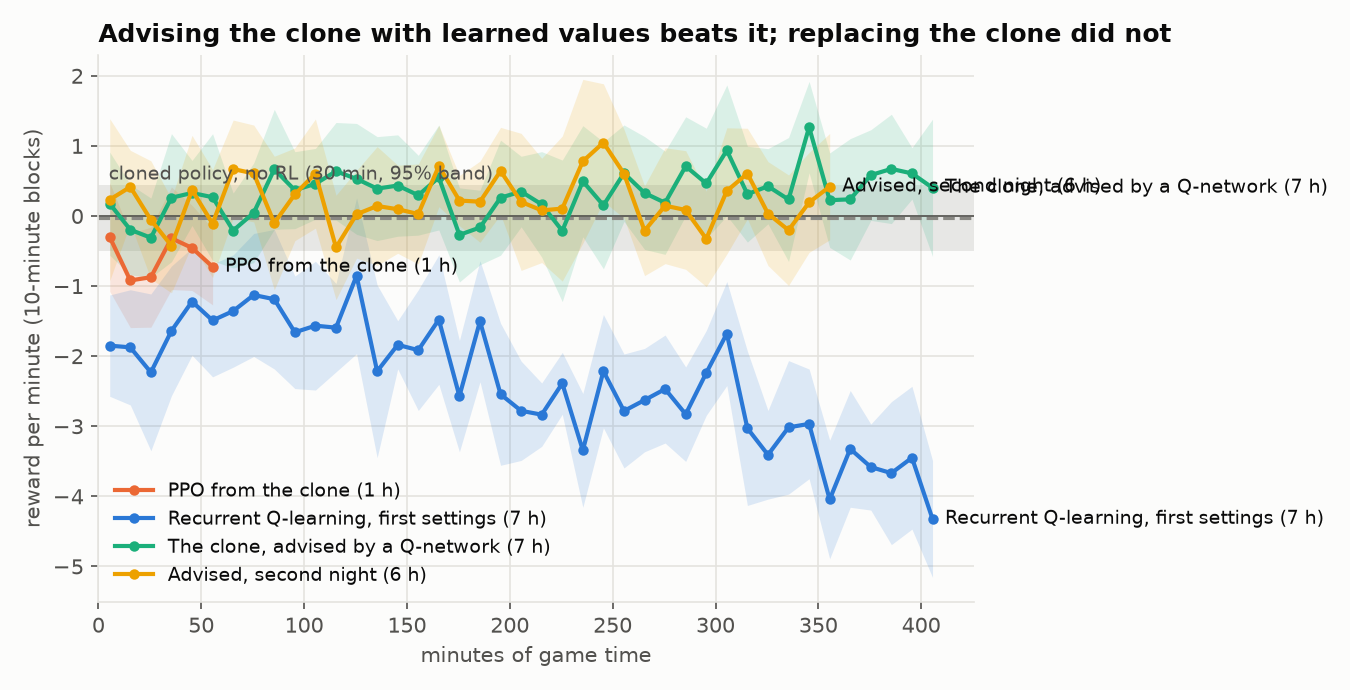
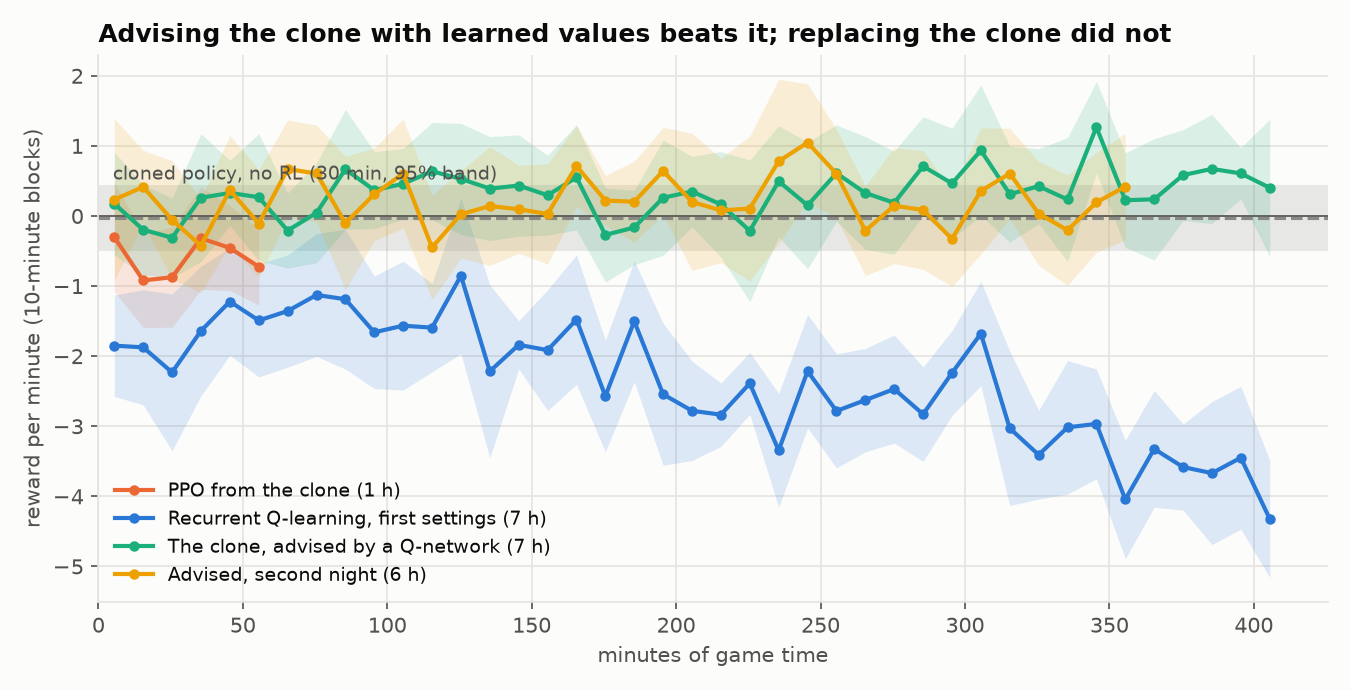
docs: the README shows the current agent, its results and what failed

diff --git a/scripts/plot_results.py b/scripts/plot_results.py
@@ -86,8 +86,7 @@ def rl_runs(plt) -> Path:
         p = progress(path)
         t, m, e = blocks(p["reward"], p["game_frames"] / 3600)
         ax.fill_between(t, m - 1.96 * e, m + 1.96 * e, color=colour, alpha=0.15, lw=0)
-        ax.plot(t, m, color=colour, marker="o", ms=4, label=label)
-        ax.annotate(label, (t[-1], m[-1]), xytext=(6, 0), textcoords="offset points", color=INK, fontsize=9, va="center")
+        ax.plot(t, m, color=colour, marker="o", ms=4, label=label)  # named in the legend: end labels collide
     ax.set_xlabel("minutes of game time")
     ax.set_ylabel("reward per minute (10-minute blocks)")
     ax.set_title("Advising the clone with learned values beats it; replacing the clone did not")

diff --git a/README.md b/README.md
@@ -1,161 +1,146 @@
-# brawl: vision-only reinforcement learning in a live game
+# brawl: a reinforcement-learning agent that plays a live fighting game from the screen
 
-An agent that plays Brawlhalla from **screen pixels alone**: no memory reading, no game API, no
-emulator. It runs on a single laptop (RTX 3050 Ti, 4 GB VRAM). Each step captures the screen,
-detects fighters and weapons with YOLO, updates a structured game state, reads stocks and damage
-from the HUD, and injects keyboard input.
+An agent that plays Brawlhalla against the game's built-in bots using **only what a human gets**: the
+pixels on the screen and the keyboard. No memory reading, no game API, no emulator, no speed-up or
+pause. Everything runs in real time on one laptop (RTX 3050 Ti, 4 GB VRAM), deciding 20 times a
+second.
 
-**Research question.** Being defined in `research/HYPOTHESIS.md` (next step). Everything produced before it (seven pipeline generations) is kept under `legacy/` and
-summarized, with its results and decisions, in [research/LAB_NOTEBOOK.md](research/LAB_NOTEBOOK.md).
+**Current result.** The agent starts from a cloned human policy, and a recurrent Q-network learns
+online, while the agent plays, how to shift that policy's choices. Against the Medium bot, the advised
+agent scores **+0.50 reward per minute**, against **−0.08** for the cloned policy alone. That is
+**20 stocks taken to 14 lost, against 15 to 16**, and **6 virtual matches won to 1, against 4 to 3**. Each
+was measured in 30 minutes of frozen-policy play (6 × 5 min blocks, back to back:
+[results/play/](results/play/)). The same gap held during training: +0.38 ± 0.06 against −0.11 ± 0.19
+over a 7-hour night.
 
-![Brawlhalla training-mode reference frame](assets/screenshots/stage-reference-1080p.png)
+![Reward per minute over each training run](results/figures/rl_runs.png)
 
-## Why this is hard
+*Each line is one overnight run in the live game (10-minute blocks, 95% bands). The grey band is the
+cloned policy without learning. Two baselines fell below it: PPO fine-tuning (red) and plain
+recurrent Q-learning (blue). Keeping the clone and letting a Q-network advise it (green, orange) is the
+first method that beat it.*
 
-| Constraint | Consequence |
-|---|---|
-| No memory access | Every state variable must be recovered from pixels |
-| No emulator, no pause | The game runs in wall-clock time and cannot be stepped or sped up |
-| Cannot reset the match | Episode boundaries are logical; the world keeps going |
-| One game instance | No parallel environments; about 26-30 control steps per second, detector-bound |
-| 4 GB VRAM | Detector and policy share one small GPU |
+## How it works
 
-About 27 steps/s is roughly 2.4M environment steps per day of continuous play, so sample
-efficiency per interaction and per wall-clock hour is the binding constraint. Detection is about
-93% of each step ([docs/performance.md](docs/performance.md)).
+```mermaid
+flowchart LR
+    S[Screen capture<br/>DXGI, 60 Hz] --> D[YOLO11s-pose<br/>TensorRT, ~14 ms]
+    D --> T[Tracker<br/>identities, weapons, velocities]
+    S --> H[HUD reader<br/>stocks, damage, KO vs fall]
+    T --> O[Observation<br/>112 features + timers]
+    H --> O
+    H --> R[Reward<br/>damage and stocks]
+    O --> P[Cloned policy<br/>MLP]
+    O --> Q[Recurrent Q-network<br/>GRU 256, dueling head]
+    P --> A{{"π ∝ π_clone · exp(β · clip(A_Q))"}}
+    Q --> A
+    A --> K[Keyboard<br/>9 directions × 6 buttons]
+    R --> L[Learner process<br/>n-step SARSA, CPU]
+    L -. new weights .-> Q
+```
 
-## Install
+1. **Perception.**
+   - A YOLO11s pose model finds both fighters and the weapons. I trained it on hand-labelled frames.
+     It is exported to a TensorRT FP16 engine and runs in about 14 ms a frame.
+   - A tracker keeps the fighters' identities and estimates their velocities.
+   - It passed a held-out gate ([results/gates/](results/gates/)): fighters found 98.6–100% of the
+     time, identity swaps at or below 0.7%, position error p95 at or below 15 px at 1920×1080.
+2. **Game state.**
+   - The HUD reader recovers stocks and damage from pixels.
+   - A ledger tells KOs apart from self-inflicted falls.
+   - The observation has 112 entries: positions, velocities, damage, weapons, stage geometry and
+     action timers.
+3. **Imitation.**
+   - I recorded under 2.5 hours of my own play.
+   - The policy clones only the stretches that ended in a stock taken.
+4. **Learning online: the "advised clone".**
+   - The agent samples from the clone's distribution, re-weighted by a recurrent Q-network's
+     advantages. The advantages are bounded, and the weighting ramps in after a 30-minute baseline.
+     This is a KL-regularised policy-improvement step, as in MPO and AWR.
+   - The Q-network learns by 20-step SARSA in a separate process while the game keeps running, so play
+     never waits for training.
+   - Safeguards for unattended 7–10 h runs:
+     - keep the best weights from any half-hour, and roll back to them if play falls by 1.0 reward a
+       minute;
+     - a watchdog that stops the run when the HUD goes unread;
+     - per-decision traces.
 
-Windows, Python 3.12, a CUDA 12.x GPU, and Brawlhalla in Training Mode at 1920x1080. torch must
-come from the PyTorch CUDA index, in its own command ([docs/setup.md](docs/setup.md) explains why).
+## What did not work, and why that mattered
+
+Every result, including the negative ones, is in [research/LAB_NOTEBOOK.md](research/LAB_NOTEBOOK.md).
+
+| Attempt | Outcome | Reading |
+|---|---|---|
+| PPO fine-tuning from the clone | Worse within an hour | Policy-gradient noise from one slow real-time environment destroys the clone faster than it learns |
+| Recurrent Q-learning, acting greedily | −2 to −4 reward per minute | First copied its own last action. Then its values inflated overnight (−1.85 → −4.3). Then it stood still once exploration stopped |
+| Uniform exploration | The fighter threw its weapon away | Replaced by exploring with the human's action frequencies |
+| Fighter crops (CNN) added to the vector state | Worse value estimates (lose AUC 0.61 against 0.73) | Overfits on 2.5 h of data; the vector already carries what the crops show |
+| Distilling the advised play into a new clone | Under test (A/B within one night) | – |
+
+## Engineering
+
+- **Real time, one instance:**
+  - Capture, perception and policy take 25 ms median per decision (p95 34 ms, against a 50 ms budget);
+  - 0.15% of decisions miss the budget.
+  - Every call is counted, so one frame gets exactly one grab, one detection and one step.
+- **Reproducible experiments:**
+  - YAML configs ([configs/base.yaml](configs/base.yaml), [configs/experiments/](configs/experiments/));
+  - `runs/<experiment>/<variant>/seed<k>/`, with per-block CSVs and the git commit in `meta.json`;
+  - [scripts/analyze.py](scripts/analyze.py) and [scripts/plot_results.py](scripts/plot_results.py) for summaries and figures;
+  - a lab notebook and a checklist.
+- **Offline benchmarks before every overnight run:**
+  - the value network on held-out human sessions: correlation with the real return, AUC for lost
+    and won stocks ([scripts/value_bench.py](scripts/value_bench.py));
+  - probes of which inputs help ([results/probes/](results/probes/)).
+- **1,000+ tests**, run in CI without the game: fake game and capture, the full live loop with a
+  learner process.
+
+## Run it
+
+Windows, Python 3.12, a CUDA 12 GPU, and Brawlhalla in Training Mode at 1920×1080 (Wu Shang vs a
+Mordex bot, Brawlhaven small, camera Fixed).
 
 ```powershell
 python -m pip install torch torchvision --index-url https://download.pytorch.org/whl/cu126
 python -m pip install -r requirements.txt
 python -m pip install -e .
-python -m pytest            # about 935 tests, 2 minutes; no game needed
+python -m pytest                                                     # no game needed
+
+python scripts/export_detector.py runs/detector/armed_yolo11s-pose_960/weights/best.pt   # TensorRT engine
+python scripts/record_demos.py --difficulty medium                   # record your own play
+python scripts/prepare_demos.py
+python scripts/train_bc.py --name medium_v1 --difficulty medium
+python scripts/train.py --config configs/experiments/rdqn_medium_v3.yaml   # the advised clone, overnight
+python scripts/analyze.py rdqn_medium_v3
+python scripts/plot_results.py
 ```
 
-The detector's TensorRT engine also needs the `tensorrt` (CUDA 12 build) and `onnx` packages. An
-engine only loads in the TensorRT version that built it, so build it in the environment that will
-run it, and again after TensorRT or the GPU driver changes:
+[docs/setup.md](docs/setup.md) covers CUDA and the TensorRT build.
 
-```powershell
-python scripts/export_detector.py runs/detector/armed_yolo11s-pose_960/weights/best.pt
-```
-
-## Quickstart
-
-```powershell
-python scripts/ops/check_capture.py                           # screen capture and detector on this machine
-python scripts/llc/llc_preflight.py --device cuda             # files, packages, GPU, calibration
-python scripts/llc/debug_observation_overlay.py --phase movement_fluency --show --max-steps 1000
-```
-
-Check perception with the overlay before training anything: if the overlay is wrong, everything
-downstream is wrong.
-
-## How one step works
-
-```mermaid
-flowchart LR
-    A[DXCam capture] --> B[YOLO detector<br/>TensorRT]
-    B --> C[Memory<br/>tracking, physics, stage geometry]
-    U[HUD probes<br/>stocks + damage] --> C
-    W[Weapon classifier<br/>+ input intent] --> C
-    C --> D[StateSpec<br/>146 state/history features]
-    D --> P[Policy<br/>Discrete-27]
-    P --> H[pydirectinput<br/>keyboard]
-    H --> A
-```
-
-`brawl/env/live.py` runs this loop; [docs/architecture.md](docs/architecture.md) and
-[docs/observation-space.md](docs/observation-space.md) describe each stage.
-
-## Pipelines
-
-Each pipeline generation (era) has its own subpackage, scripts, configs, outputs and docs, all under
-the same name. None is the research method yet; they are the starting material for it.
-
-| Era | What it is | Status | Entry point | Docs |
-|---|---|---|---|---|
-| `llc` | Goal-conditioned skill curriculum: teacher demos, BC, anchored-replay PPO, retention gates | Superseded | `python -m brawl.pipelines.llc.train_curriculum` | [llc](docs/pipelines/llc/) |
-| `final_agent` | One goal-free policy on full-match reward, initialized from the skill policy | Stalled | `python -m brawl.pipelines.final_agent.run` | [final_agent](docs/pipelines/final_agent/) |
-| `semantic57` | 57 macro actions with masked PPO | Parked | `python -m brawl.pipelines.semantic57.run` | [semantic57](docs/pipelines/semantic57/) |
-| `primitive27` | Integrated teacher, pooled BC, plain PPO on Discrete(27) | Frozen baseline | `python -m brawl.pipelines.primitive27.run` | [primitive27](docs/pipelines/primitive27/) |
-| `round_a` | Information and memory benchmark: mlp, recurrent and multi (RGB + state) candidates | Last active | `python -m brawl.pipelines.round_a.run` | [round_a](docs/pipelines/round_a/) |
-| `weapon_classifier` | Weapon-possession crop classifier | In use | `python -m brawl.pipelines.weapon_classifier.train` | [diagnostics](docs/pipelines/final_agent/diagnostics.md) |
-
-Every entry point takes `--help`. Run them from any folder: default paths are anchored at the
-repository root ([brawl/paths.py](brawl/paths.py)).
-
-## Repository layout
+## Layout
 
 ```
-brawl/                  the package (pip install -e .)
-  capture/              DXGI / GDI screen capture; capture_first.py must load before torch
-  perception/           YOLO wrapper, weapon classifier, weapon evidence fusion
-  state/                Memory (tracking, physics), StateSpec, canonicalization, detection schema
-  control/              Discrete(27) action space, input injection, tap scheduling, semantic actions
-  reward/               HUD decoding (stocks, damage), reward providers, match objective
-  env/                  live.py (the live-game env), match.py (match-reward wrapper)
-  training/             shared: checkpoints, runner, CLI, experiment config, teachers, curriculum goals
-  algo/                 AnchoredReplayPPO (replay, KL anchor, BC loss, PCGrad)
-  pipelines/<era>/      one subpackage per pipeline generation (table above)
-  analysis/             figures and paper evidence from run outputs
-  world_model/          world-replay recorder
-  paths.py, compat.py   repository locations; loading checkpoints saved before this layout
-scripts/                tools you run directly: ops/ (capture, calibration, probes), llc/, round_a/, final_agent/
-configs/legacy/<era>/   protocols and experiment files from before the hypothesis
-tests/                  unit and integration tests (CI runs them without the game)
-docs/                   how the system works, and docs/pipelines/<era>/ per pipeline
-research/               LAB_NOTEBOOK.md, paper/ (LaTeX), reports/, notebooks/, archive/
-results/legacy/<era>/   committed summaries and figures from before the hypothesis
-assets/                 YOLO weights (Git LFS), reference screenshots
-runs/                   training outputs, git-ignored (runs/legacy/<era>/ for existing runs)
-data/                   datasets, demos, world replay, frozen input models (data/models/), git-ignored
+brawl/
+  game/          screen capture, frame clock, keyboard
+  sense/         detector, tracker, HUD reader
+  observation.py, actions.py, ledger.py, brawlenv.py    the environment
+  learn.py       behaviour cloning, PPO, the live Q-learning loop
+  rdqn.py        recurrent Q-network, replay, learner process, the advised policy
+  vision.py      fighter crops (for the vision experiments)
+  pipelines/     earlier generations of the project, kept for reference
+scripts/         train, play, analyze, plot, benchmarks, data preparation
+configs/         base.yaml and one file per experiment
+results/         committed summaries and figures
+research/        LAB_NOTEBOOK.md, CHECKLIST.md, paper drafts
+tests/
 ```
 
-The research harness from the PADP project (`configs/base.yaml`, `configs/experiments/*.yaml`,
-`scripts/{train,sweep,analyze}.py`, `runs/<experiment>/<variant>/seed<k>/`,
-`results/<experiment>/summary.md`) comes with the first pipeline built for the hypothesis.
+**Earlier generations.** The project went through several approaches before this one:
+- a goal-conditioned skill curriculum;
+- macro-action PPO;
+- a representation benchmark.
 
-## Outputs
-
-| What | Where |
-|---|---|
-| A training run | `runs/legacy/<era>/<run>/` (Round A, primitive27, semantic57 and the final agent each write a run folder; LLC writes flat files into `runs/legacy/llc/`) |
-| Diagnostics, profiles, debug videos | `runs/legacy/<era>/` |
-| Weapon classifiers and other frozen inputs | `data/models/` |
-| World replay | `data/world_replay/` |
-| Curated summaries | `results/legacy/<era>/` |
-
-Checkpoints saved before the 2026-11-02 restructure still load: `brawl.compat.load_sb3()` maps
-their old module paths (for example `train.round_a_models`) to the current ones.
-
-## Known issues
-
-1. **PPO fine-tuning has made the BC initialization worse in every pipeline so far** (Round A:
-   -1.2 net stocks per minute after 50k steps, one seed). Not yet explained; see the lab notebook.
-2. **Weapon possession is fused from a crop classifier and input intent**, not observed directly;
-   the classifier is not yet validated as ground truth.
-3. **PPO updates do not pause the game**, so the agent is idle during each update (logged as
-   update-gap transitions).
-4. **The action space cannot express direction-modified attacks**, so much of the moveset is
-   unreachable.
-5. **`yolo_infer_every_n_steps` is not honoured** by the step loop; reusing stale boxes would
-   collapse velocity estimates, so the fix must skip the state update too.
-6. **Opponent weapon state is unavailable** under the 3-class detector schema.
-
-## Documents
-
-- [docs/setup.md](docs/setup.md): environment, CUDA, TensorRT engine build
-- [docs/architecture.md](docs/architecture.md): pipeline internals
-- [docs/observation-space.md](docs/observation-space.md): every state dimension and its provenance
-- [docs/experiment-workflow.md](docs/experiment-workflow.md): how a method is added and recorded
-- [docs/pipelines/](docs/pipelines/): one folder per pipeline generation
-- [research/LAB_NOTEBOOK.md](research/LAB_NOTEBOOK.md): what was run, what came out, what was decided
-- [research/paper/](research/paper/): working manuscript (August 2026, goal-conditioned skills)
+They live in `brawl/pipelines/` and `results/legacy/`, with their docs in [docs/pipelines/](docs/pipelines/).
 
 ## License
 
